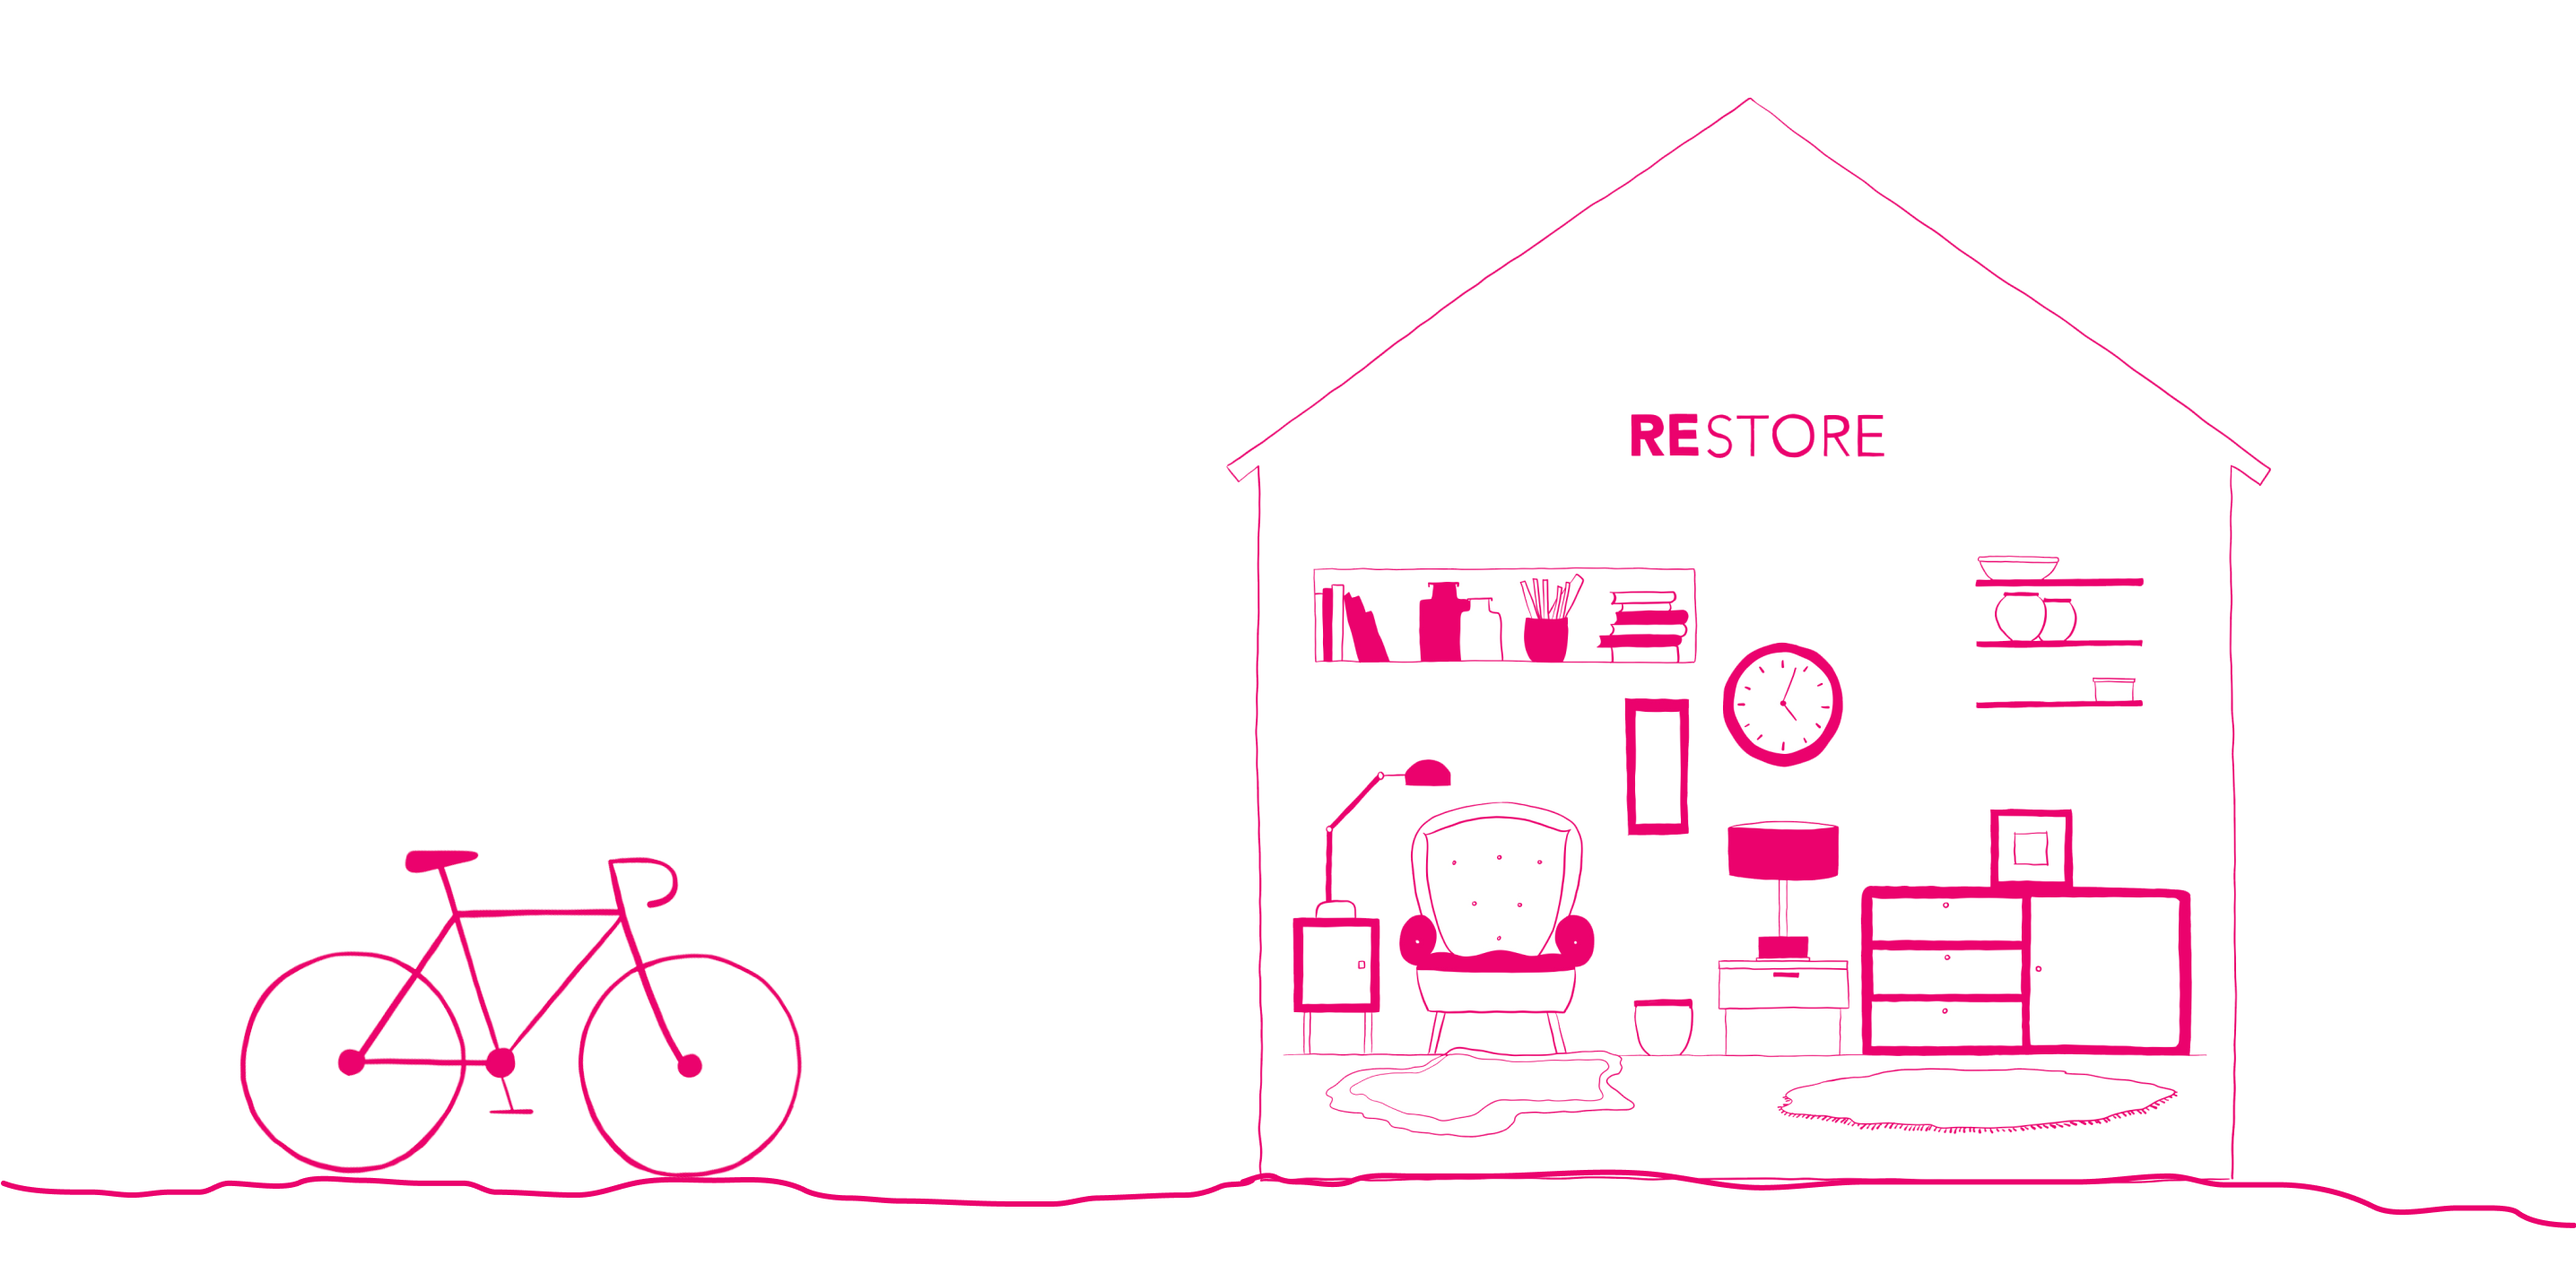
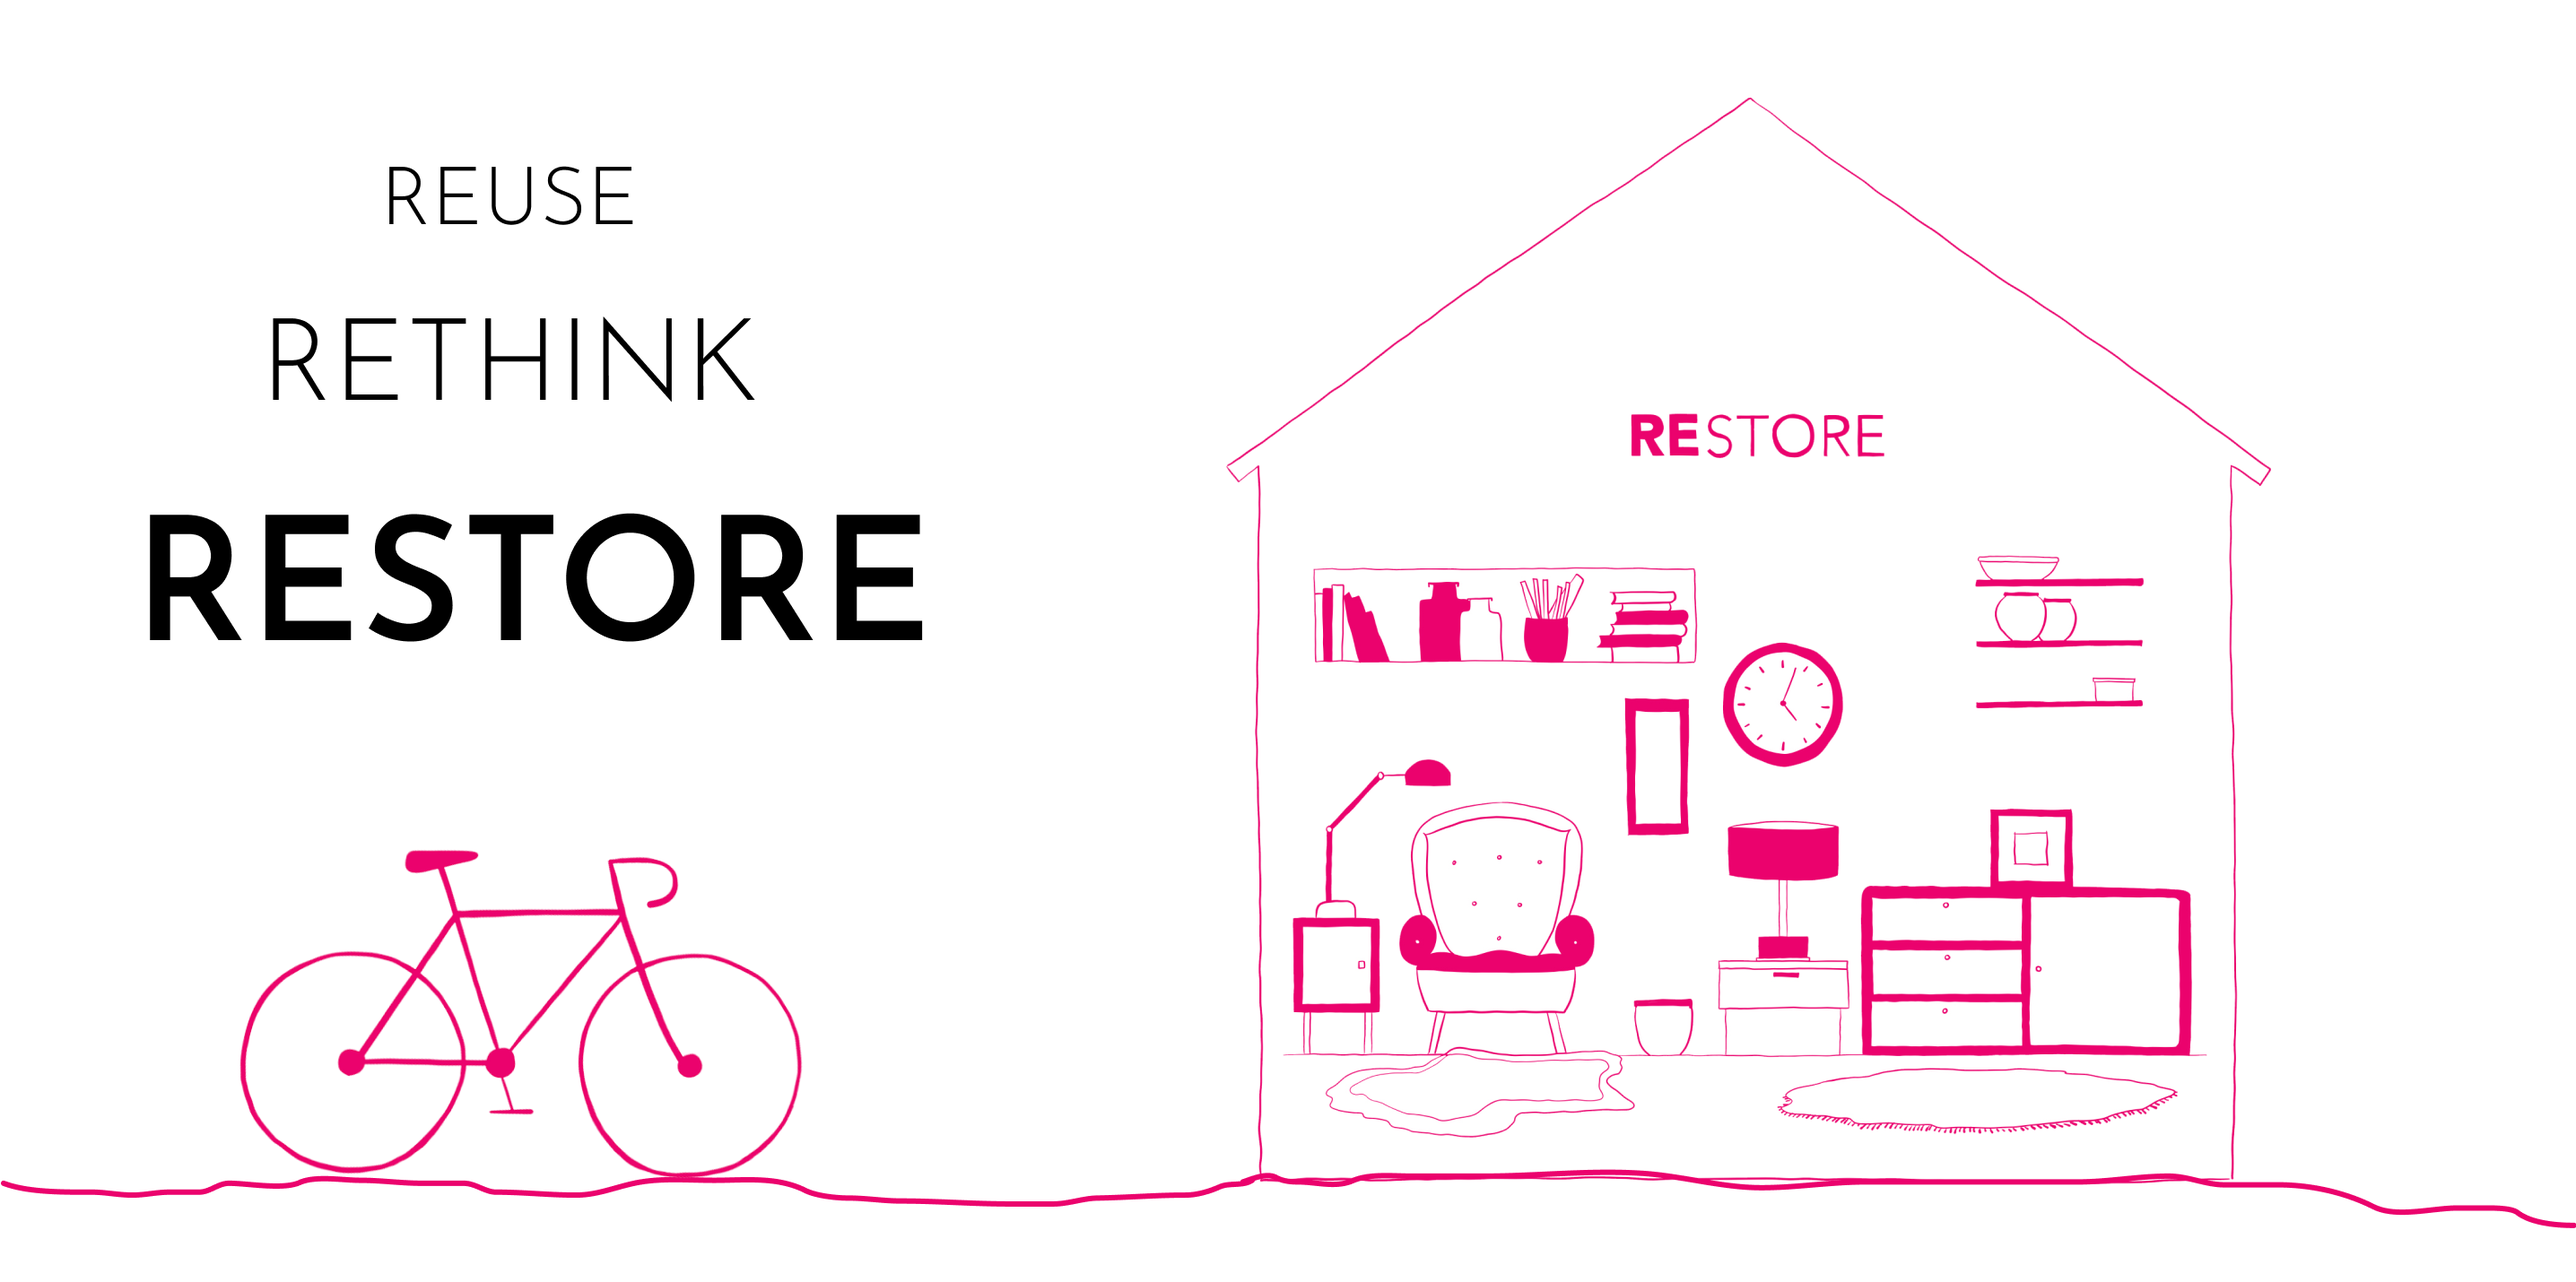
Redesign navbar and hero img

Changed region(s): [[0.031, 0.4, 0.3719, 0.5231], [0.093, 0.2462, 0.2789, 0.3077], [0.1549, 0.1231, 0.2479, 0.1846]]

diff --git a/styles.css b/styles.css
@@ -12,61 +12,17 @@ body {
   flex-direction: column;
 }
 
-.heroImgContainer {
-  background-image: url(Images/restore.jpg);
-  width: 629px;
-  height: 629px;
+.hero_img {
+  width: 100%;
+  object-fit: contain;
 }
 
 .heroDiv {
   display: flex;
-  width: 100%;
-  height: 600px;
-  margin: 0px;
-  margin-bottom: 100px;
-}
-
-.heroContent {
-  display: flex;
-  width: 100%;
-  justify-content: space-evenly;
-}
-
-.heroRight {
-  width: 100%;
-  display: flex;
-  justify-content: flex-end;
-  align-items: center;
-}
-
-.heroLeft {
-  width: 100%;
-  margin: 0 auto;
-  display: flex;
-  flex-direction: column;
   justify-content: center;
-  align-items: center;
-  gap: 60px;
-}
-.heroLeft h3 {
-  font-size: 45px;
-  line-height: 45px;
-  font-weight: 300;
-  font-style: normal;
-}
-
-.heroLeft h2 {
-  font-size: 64px;
-  line-height: 64px;
-  font-weight: 300;
-  font-style: normal;
-}
-
-.heroLeft h1 {
-  font-size: 96px;
-  line-height: 96px;
-  font-weight: 600;
-  font-style: normal;
+  width: 100%;
+  height: 100vh;
+  background-color: aqua;
 }
 
 .banner {
@@ -83,7 +39,7 @@ body {
   align-items: center;
   justify-content: space-between;
   z-index: 99;
-  background-color: #ff00671a;
+  background-color: #948f8f1a;
 }
 
 .logo {

diff --git a/index.html b/index.html
@@ -22,17 +22,7 @@
     </div>
     <div class="main_content">
         <div class="heroDiv">
-            <div class="heroContent">
-                <div class="heroLeft">
-                    <h3>REUSE</h3>
-                    <h2>RETHINK</h2>
-                    <h1>RESTORE</h1>
-                </div>
-                <div class="heroRight">
-                    <div class="heroImgContainer">
-                    </div>
-                </div>
-            </div>
+            <img src="Images/hero_test.png" alt="" class="hero_img"> 
         </div>
         <div class="block1">
             <img src="Images/Kitchen.JPG" class="block1img">
